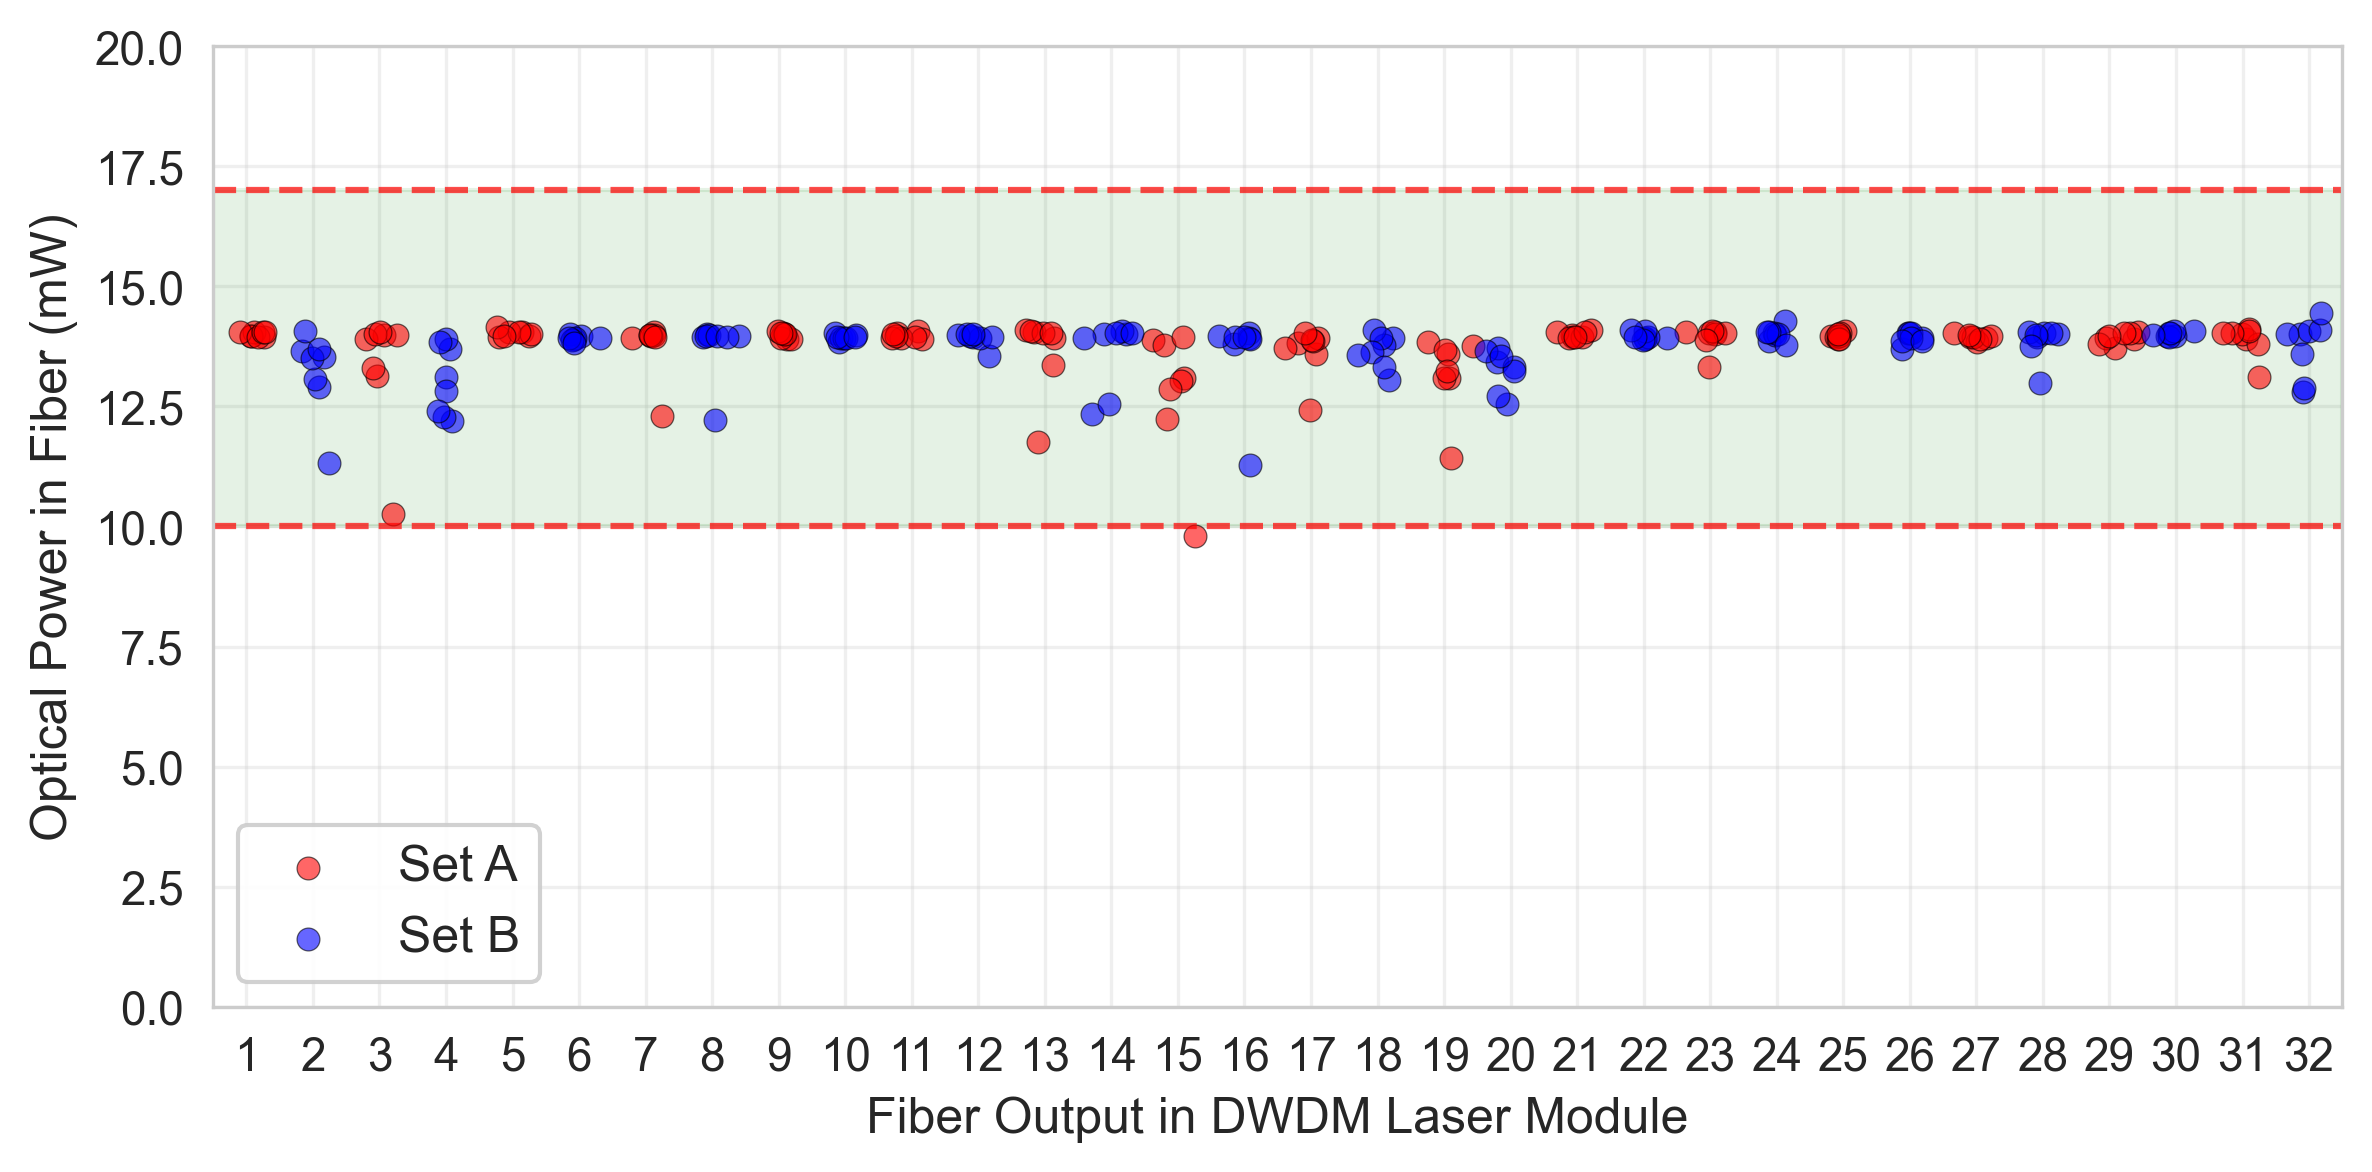
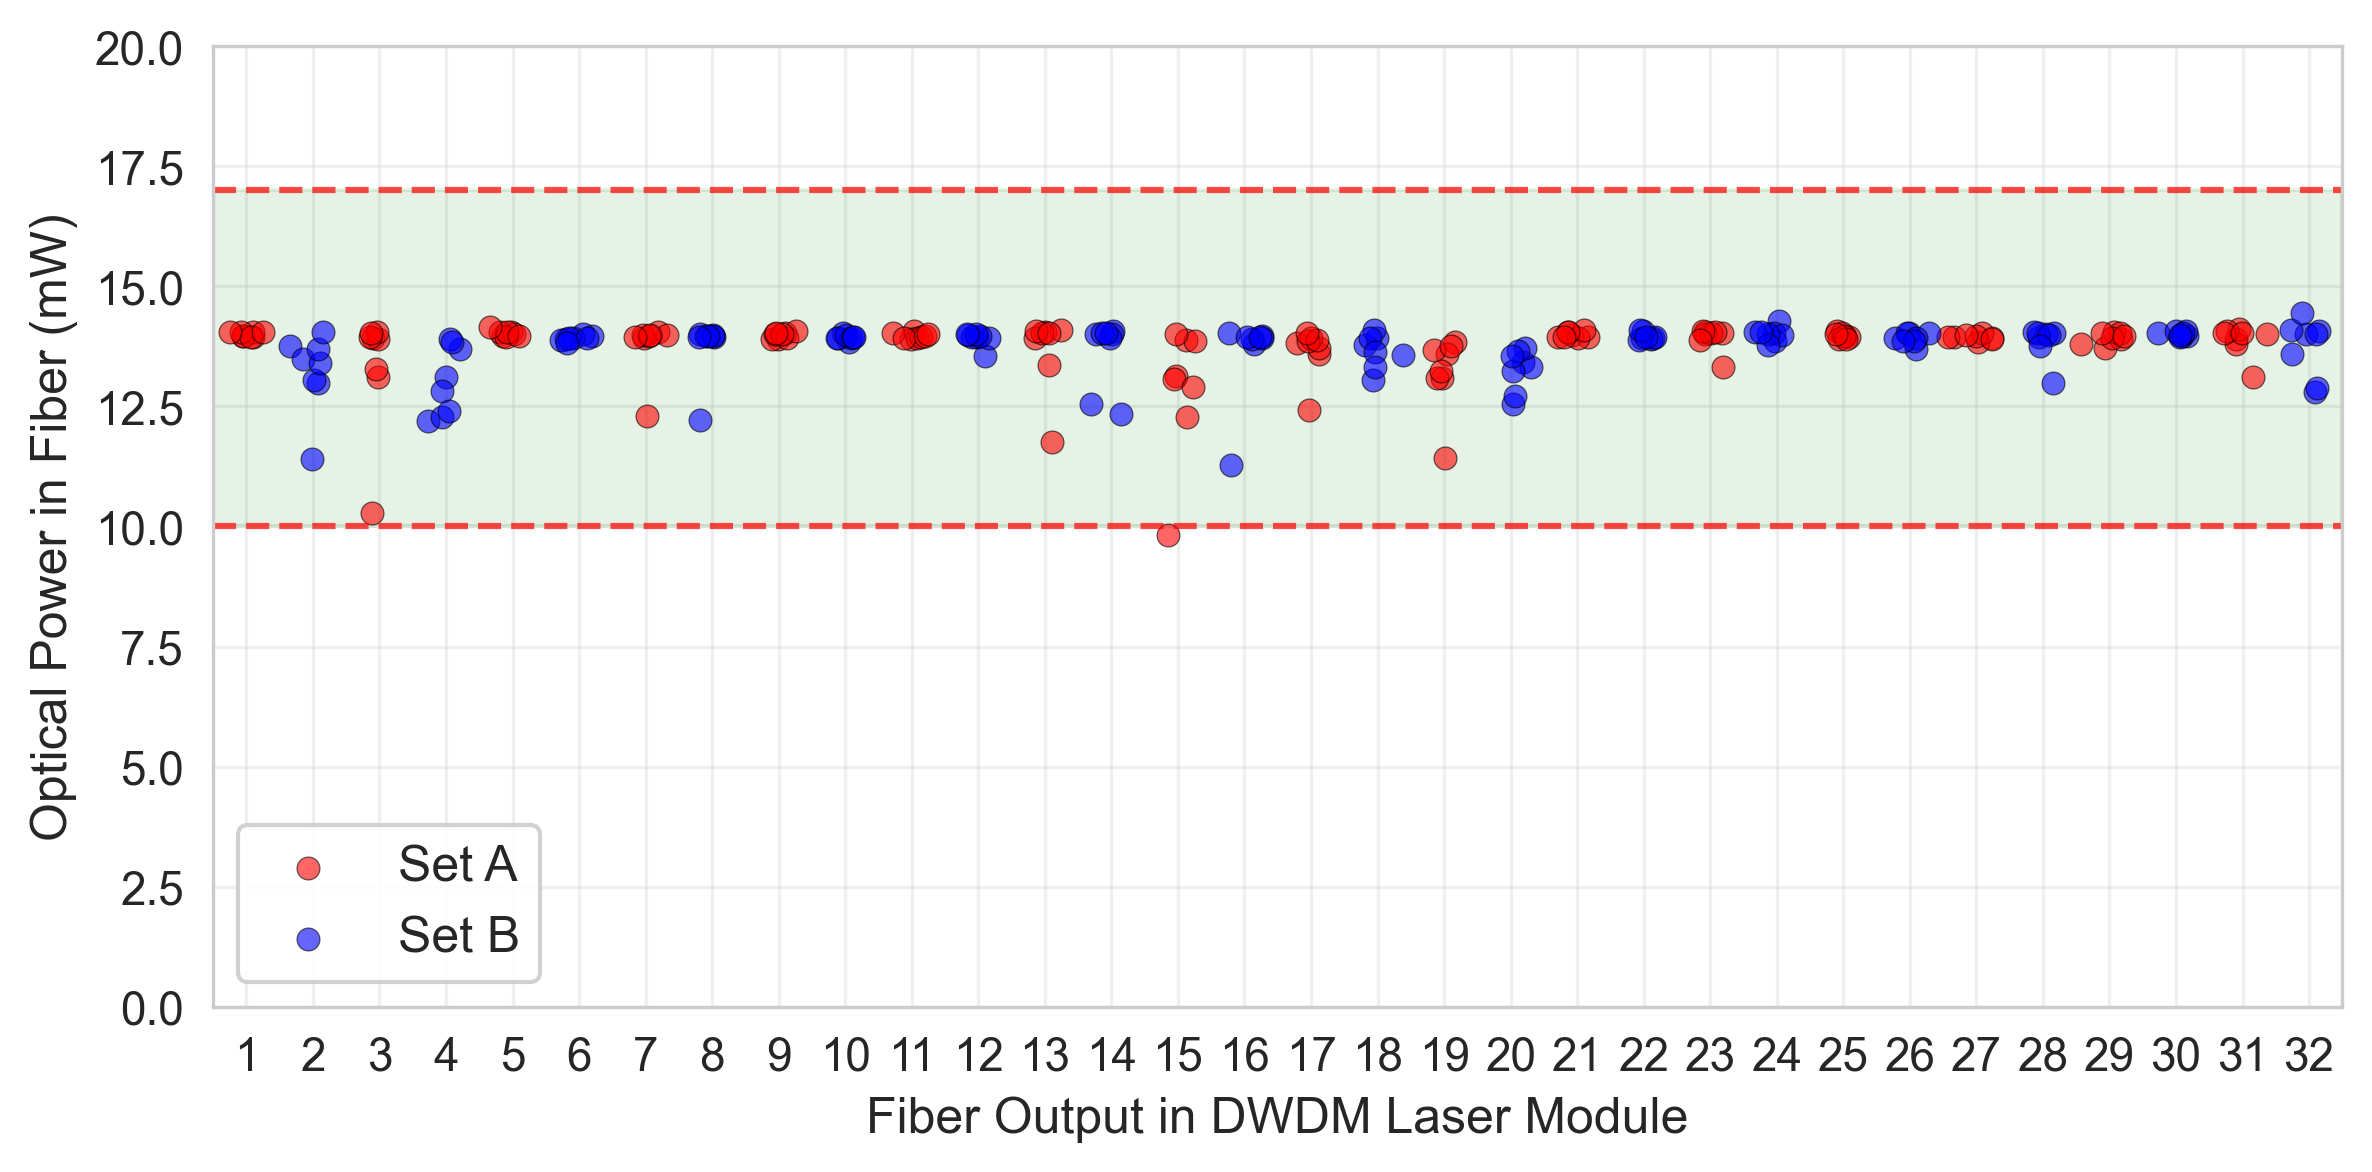
Replace data for Fibers 2, 3, and 15 from CSV file
- Implemented data replacement for specific fibers from optical_wavemeter_loop CSV
- Fiber 2 (Tile 0, BANK_B): 105.750 → 105.850 mW
- Fiber 3 (Tile 1, BANK_A): 106.630 → 106.520 mW
- Fiber 15 (Tile 7, BANK_A): 102.640 → 102.960 mW
- Applied to both power and frequency error analysis
- Updated reference wavelengths for frequency error calculation
- Regenerated optical_power_30C.png and freq_error_30C.png plots

diff --git a/ips_clm/ips_clm_evt_ofc/analysis_src/module_analysis.py b/ips_clm/ips_clm_evt_ofc/analysis_src/module_analysis.py
@@ -5976,6 +5976,29 @@ class temperature_aggressors_2:
         print(f"Tiles: {sorted(df_last['tile_id'].unique())}")
         print(f"Banks: {df_last['bank_type'].unique()}")
         
+        # Load CSV data for specific fibers (2, 3, 15) replacement
+        csv_file = self.base_path / 'temperature_aggressors' / 'optical_wavemeter_loop_20251010T213800367Z_e7390a1b-5b91-42b7-ad23-f00f82fc19a2.csv'
+        if csv_file.exists():
+            print("\nReplacing data for Fibers 2, 3, and 15 from CSV file...")
+            df_csv = pd.read_csv(csv_file)
+            last_cycle_csv = df_csv['cycle_number'].max()
+            df_csv_last = df_csv[df_csv['cycle_number'] == last_cycle_csv]
+            
+            # Replace data for Fiber 2 (Tile 0, BANK_B), Fiber 3 (Tile 1, BANK_A), Fiber 15 (Tile 7, BANK_A)
+            replace_tiles = [(0, 'BANK_B'), (1, 'BANK_A'), (7, 'BANK_A')]
+            for tile_id, bank_type in replace_tiles:
+                # Remove old data
+                df_last = df_last[~((df_last['tile_id'] == tile_id) & (df_last['bank_type'] == bank_type))]
+                # Add new data from CSV
+                new_row = df_csv_last[(df_csv_last['tile_id'] == tile_id) & (df_csv_last['bank_type'] == bank_type)]
+                if len(new_row) > 0:
+                    df_last = pd.concat([df_last, new_row], ignore_index=True)
+                    fiber_map = {(0, 'BANK_B'): 2, (1, 'BANK_A'): 3, (7, 'BANK_A'): 15}
+                    fiber_num = fiber_map[(tile_id, bank_type)]
+                    print(f"  ✓ Replaced Fiber {fiber_num} (Tile {tile_id}, {bank_type})")
+        else:
+            print(f"\nWarning: CSV file not found at {csv_file}")
+        
         # Parse pic_mpd_value arrays and convert to dBm
         data_to_plot = []
         
@@ -6128,6 +6151,23 @@ class temperature_aggressors_2:
         df_reference = df_30c[df_30c['cycle_number'] == first_cycle]
         print(f"Reference cycle_number: {first_cycle}")
         
+        # Load CSV data for reference wavelengths (fibers 2, 3, 15)
+        csv_file = self.base_path / 'temperature_aggressors' / 'optical_wavemeter_loop_20251010T213800367Z_e7390a1b-5b91-42b7-ad23-f00f82fc19a2.csv'
+        if csv_file.exists():
+            df_csv = pd.read_csv(csv_file)
+            first_cycle_csv = df_csv['cycle_number'].min()
+            df_csv_reference = df_csv[df_csv['cycle_number'] == first_cycle_csv]
+            
+            # Replace reference data for specific tiles
+            replace_tiles = [(0, 'BANK_B'), (1, 'BANK_A'), (7, 'BANK_A')]
+            for tile_id, bank_type in replace_tiles:
+                # Remove old reference data
+                df_reference = df_reference[~((df_reference['tile_id'] == tile_id) & (df_reference['bank_type'] == bank_type))]
+                # Add new reference data from CSV
+                new_row = df_csv_reference[(df_csv_reference['tile_id'] == tile_id) & (df_csv_reference['bank_type'] == bank_type)]
+                if len(new_row) > 0:
+                    df_reference = pd.concat([df_reference, new_row], ignore_index=True)
+        
         # Store reference wavelengths for each tile and bank
         ref_wavelengths = {}
         for idx, row in df_reference.iterrows():
@@ -6152,6 +6192,25 @@ class temperature_aggressors_2:
         print(f"Data shape for last cycle: {df_last.shape}")
         print(f"Tiles: {sorted(df_last['tile_id'].unique())}")
         print(f"Banks: {df_last['bank_type'].unique()}")
+        
+        # Replace data for Fibers 2, 3, and 15 from CSV file
+        if csv_file.exists():
+            print("\nReplacing data for Fibers 2, 3, and 15 from CSV file...")
+            last_cycle_csv = df_csv['cycle_number'].max()
+            df_csv_last = df_csv[df_csv['cycle_number'] == last_cycle_csv]
+            
+            # Replace data for Fiber 2 (Tile 0, BANK_B), Fiber 3 (Tile 1, BANK_A), Fiber 15 (Tile 7, BANK_A)
+            replace_tiles = [(0, 'BANK_B'), (1, 'BANK_A'), (7, 'BANK_A')]
+            for tile_id, bank_type in replace_tiles:
+                # Remove old data
+                df_last = df_last[~((df_last['tile_id'] == tile_id) & (df_last['bank_type'] == bank_type))]
+                # Add new data from CSV
+                new_row = df_csv_last[(df_csv_last['tile_id'] == tile_id) & (df_csv_last['bank_type'] == bank_type)]
+                if len(new_row) > 0:
+                    df_last = pd.concat([df_last, new_row], ignore_index=True)
+                    fiber_map = {(0, 'BANK_B'): 2, (1, 'BANK_A'): 3, (7, 'BANK_A'): 15}
+                    fiber_num = fiber_map[(tile_id, bank_type)]
+                    print(f"  ✓ Replaced Fiber {fiber_num} (Tile {tile_id}, {bank_type})")
         
         # Parse wavelength_nm and calculate frequency error
         data_to_plot = []
